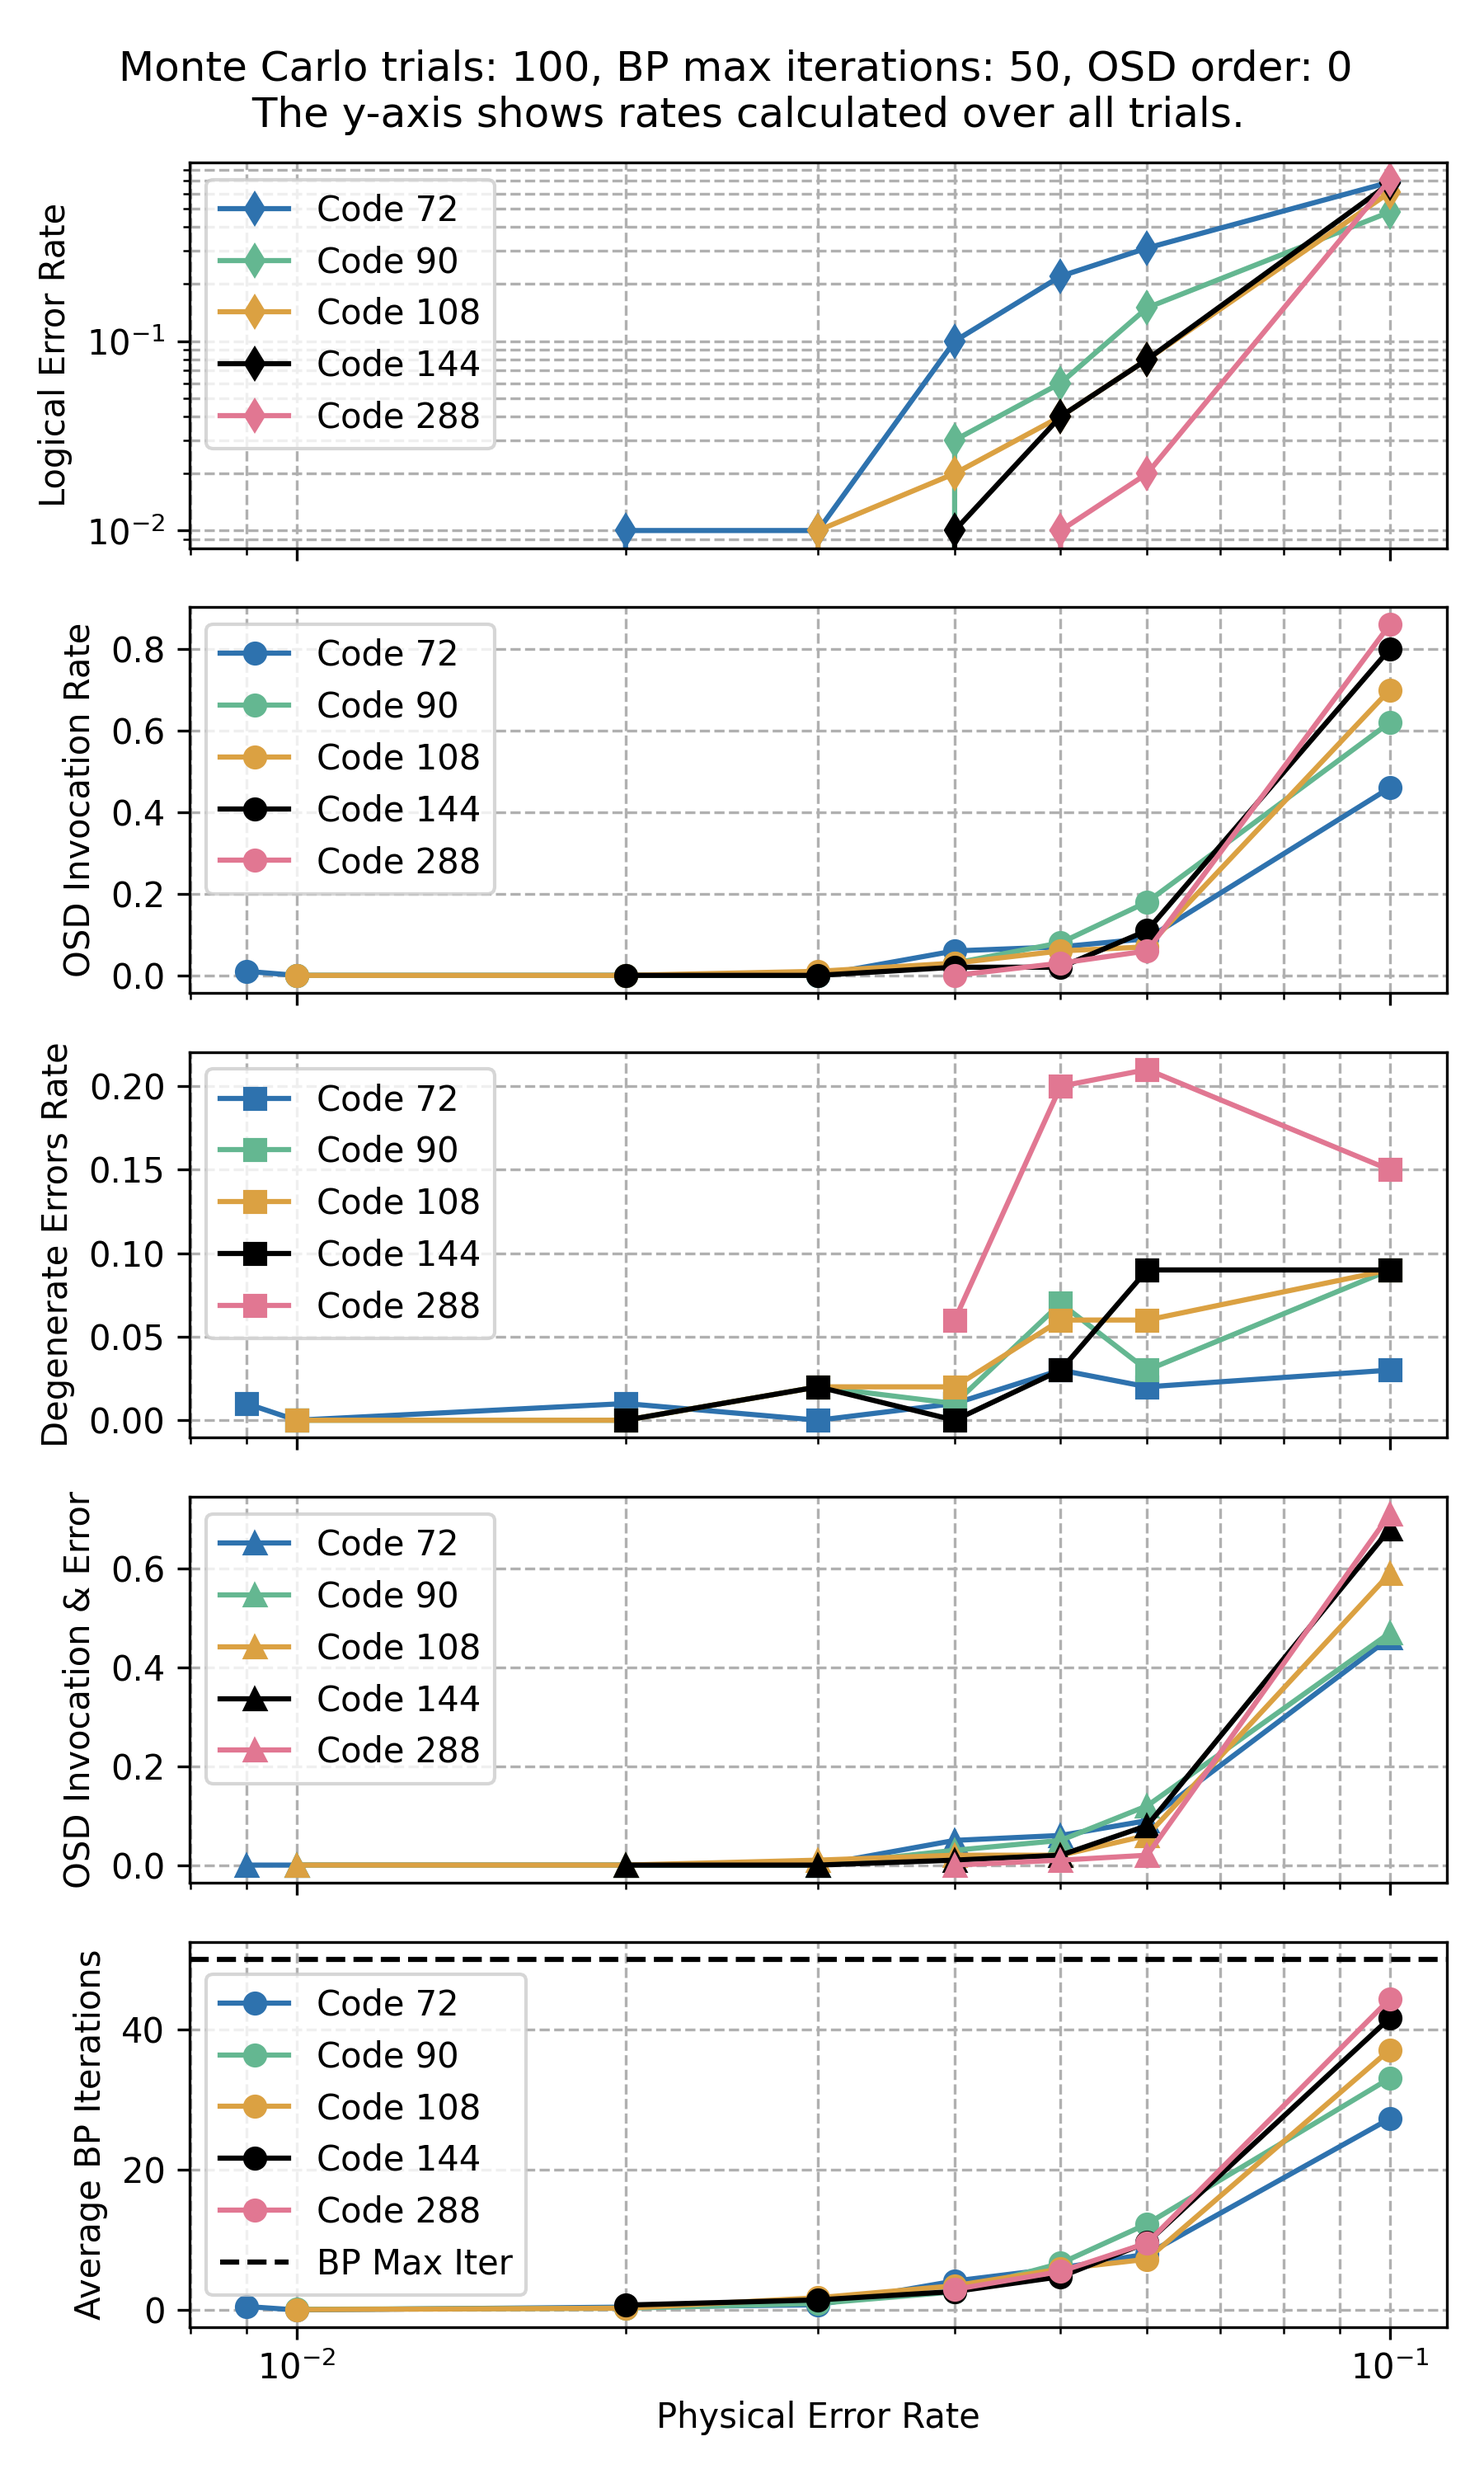
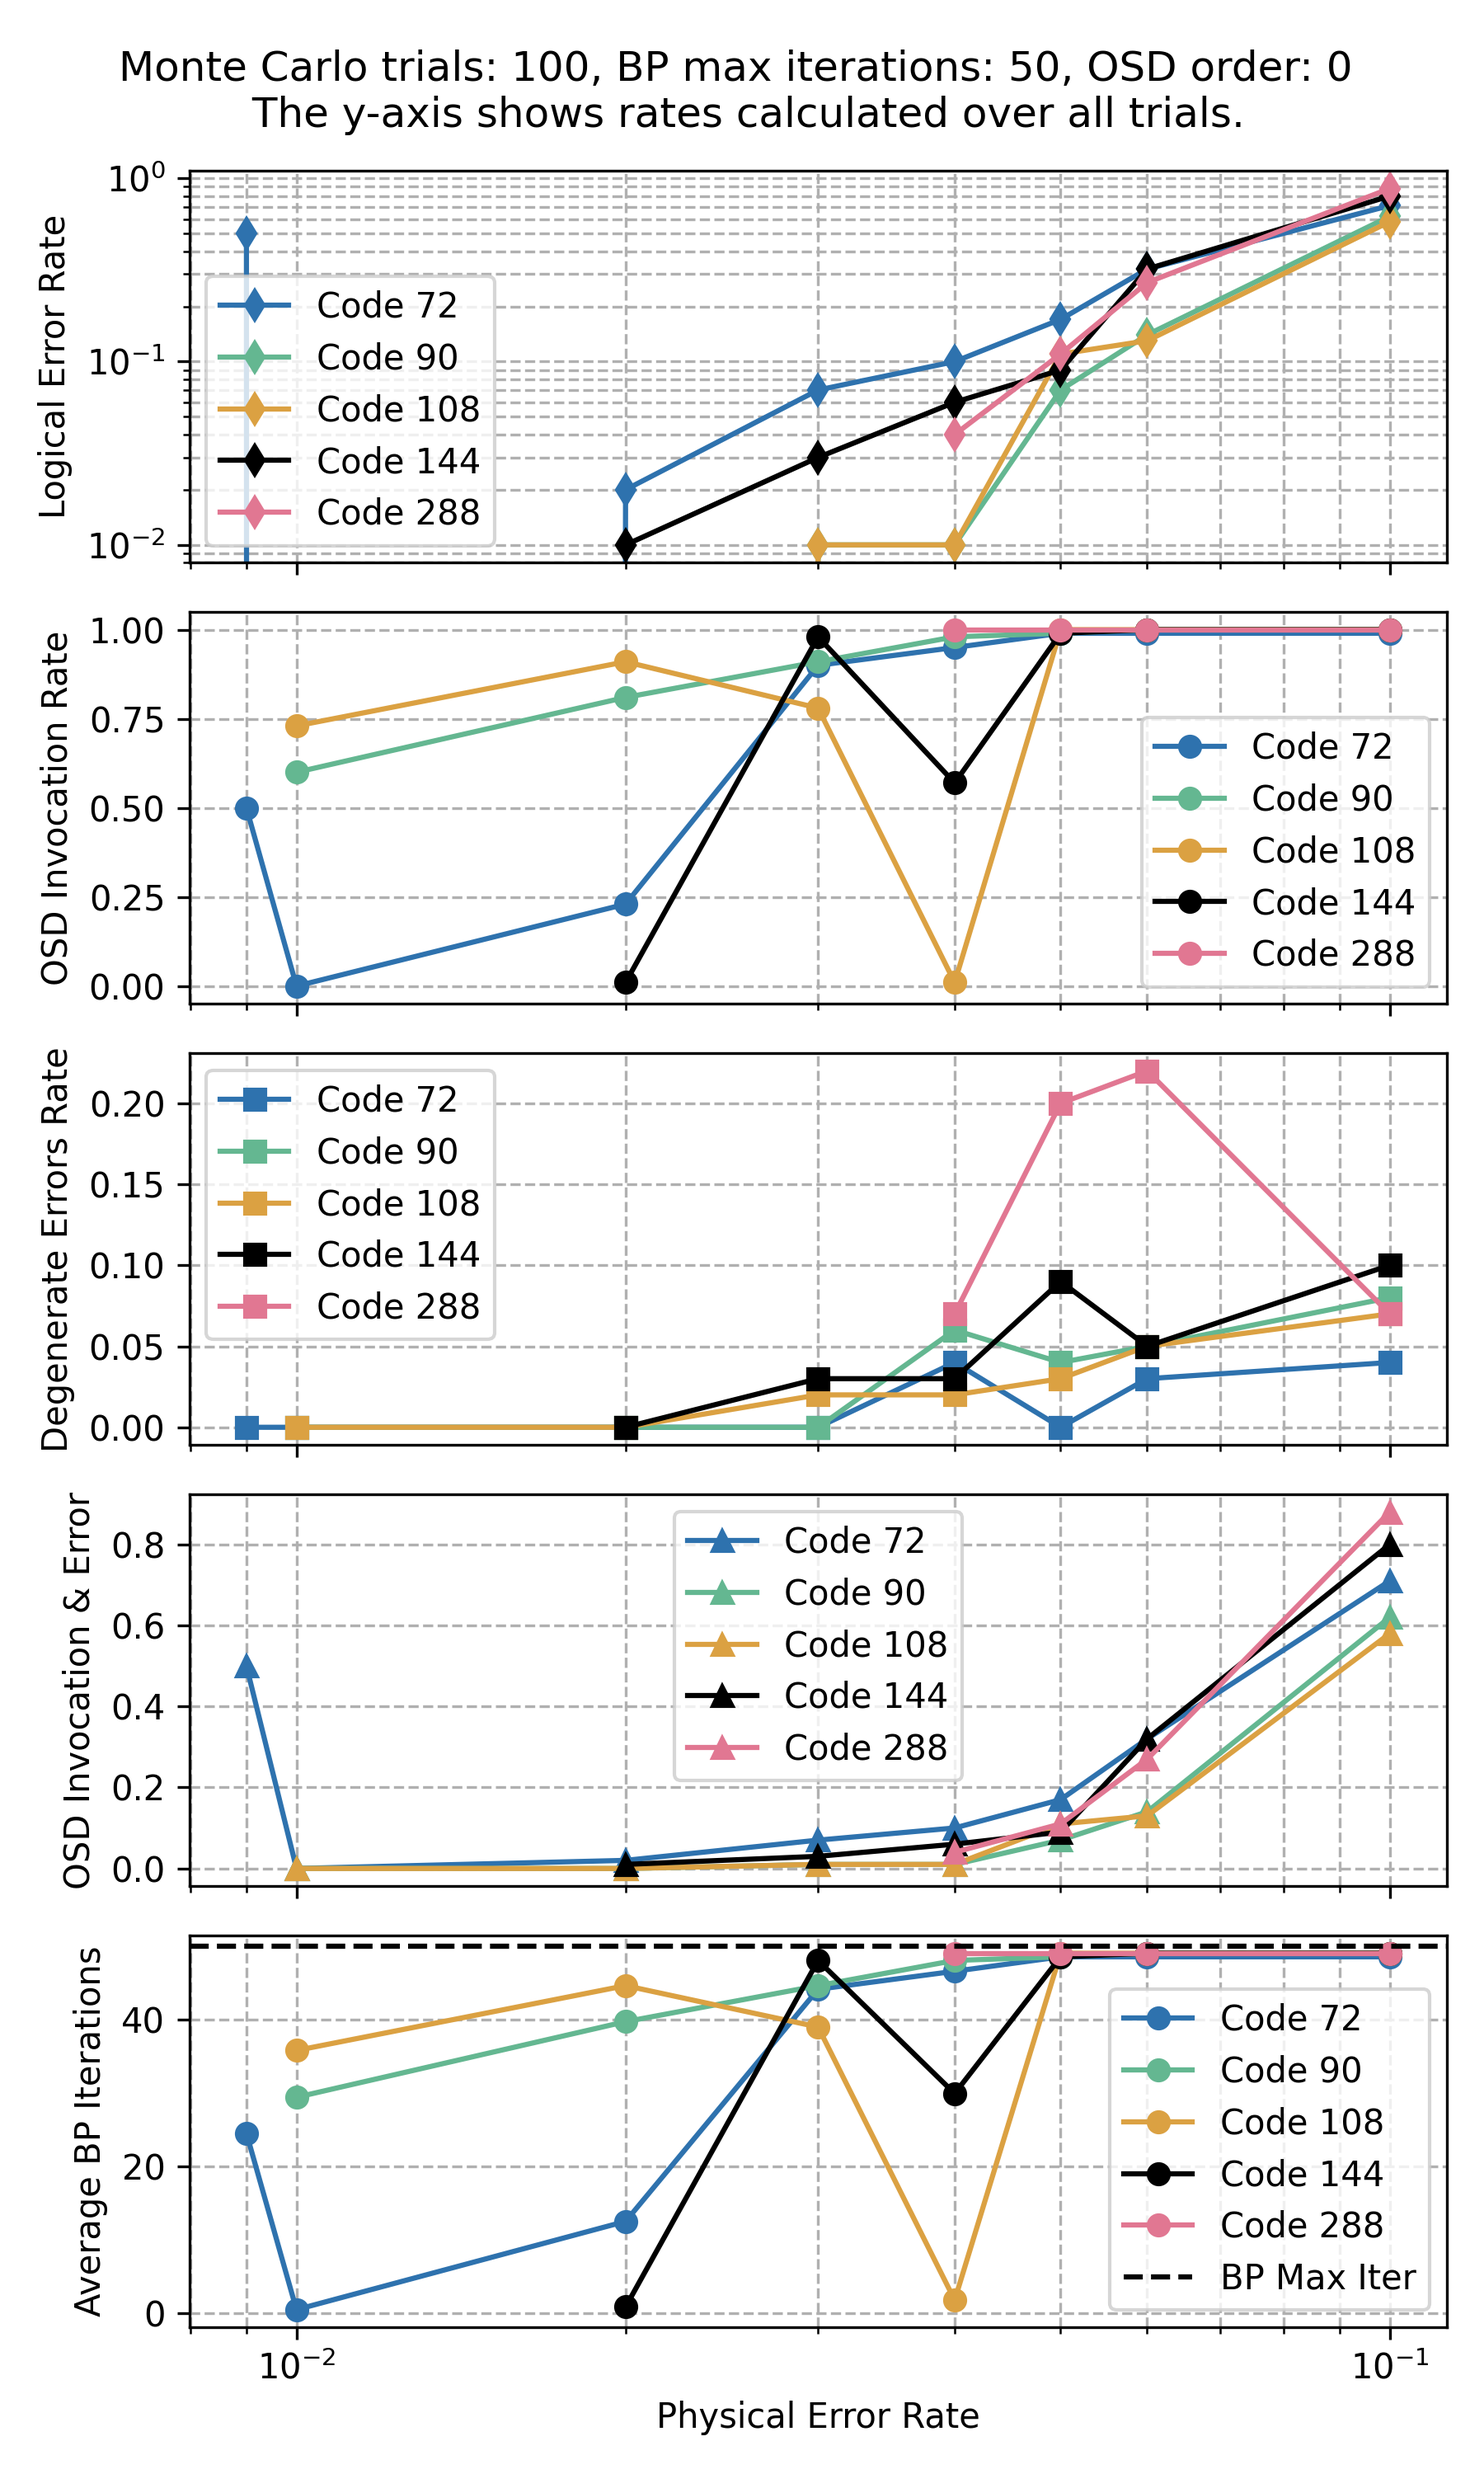
seems to work

diff --git a/rework/Alvarado.py b/rework/Alvarado.py
@@ -6,7 +6,10 @@ from scipy.optimize import curve_fit
 from decoding import performBeliefPropagation_Symmetric
 from decoding import performOSD_enhanced
 
-def estimate_alpha_from_code(code, trials=500, error_rate=0.05, maxIter=50):
+def estimate_alpha_from_code(code, trials=500, error_rate=0.05, maxIter=50, bins=50):
+
+    true_0 = []
+    true_1 = []
     
     for _trial in range(trials):
         n = len(code[0])
@@ -20,29 +23,34 @@ def estimate_alpha_from_code(code, trials=500, error_rate=0.05, maxIter=50):
             code, syndrome, initialBeliefs, maxIter=maxIter, alpha=1.0, damping=1.0, clip_llr=np.inf
         )
 
-        true_0 = llrs[error == 0]
-        true_1 = llrs[error == 1]
+        true_0.extend(llrs[error == 0])
+        true_1.extend(llrs[error == 1])
 
-        min_val = min(true_0.min(), true_1.min())
-        max_val = max(true_0.max(), true_1.max())
+    true_0 = np.array(true_0)
+    true_1 = np.array(true_1)    
 
-        hist_range = (min_val, max_val)
+    min_val = min(true_0.min(), true_1.min())
+    max_val = max(true_0.max(), true_1.max())
 
-        hist_0, bin_edges = np.histogram(true_0, bins=bins, range=hist_range, density=True)
-        hist_1, _ = np.histogram(true_1, bins=bins, range=hist_range, density=True)
-        
-        bin_centers = (bin_edges[:-1] + bin_edges[1:]) / 2
+    hist_range = (min_val, max_val)
 
-        valid_indices = (hist_0 > 0) & (hist_1 > 0)
+    hist_0, bin_edges = np.histogram(true_0, bins=bins, range=hist_range, density=True)
+    hist_1, _ = np.histogram(true_1, bins=bins, range=hist_range, density=True)
     
-        lambdas = bin_centers[valid_indices]
-        f_lambdas = np.log(hist_0[valid_indices] / hist_1[valid_indices])
-        
-        def linear_model(x, alpha):
-            return alpha * x
-        
-        popt, _ = curve_fit(linear_model, lambdas, f_lambdas)
-        alpha_opt = popt[0]
+    bin_centers = (bin_edges[:-1] + bin_edges[1:]) / 2
+
+    valid_indices = (hist_0 > 0) & (hist_1 > 0)
+
+    lambdas = bin_centers[valid_indices]
+    f_lambdas = np.log(hist_0[valid_indices] / hist_1[valid_indices])
+    
+    def linear_model(x, alpha):
+        return alpha * x
+    
+    popt, _ = curve_fit(linear_model, lambdas, f_lambdas)
+    alpha_opt = popt[0]
+
+    print(f"Estimated alpha for error rate {error_rate}: {alpha_opt}")
     
     return alpha_opt
         
@@ -82,7 +90,7 @@ experiment = [
 
 experiment_dict = {exp["name"]: exp for exp in experiment}
 
-trials = 100
+trials = 10000
 
 BP_maxIter = 50
 OSD_order = 0
@@ -118,15 +126,17 @@ for exp in experiment:
         OSD_invocation_AND_logicalError = 0
 
         collect_stats = (errorRate == exp["physicalErrorRates"][0])
-        
+
+        alpha_estimate = estimate_alpha_from_code(code, error_rate=errorRate, maxIter=BP_maxIter)
 
         for _ in tqdm.tqdm(range(trials), desc=f"Code {code_name}, p={errorRate}"):
             error = (np.random.random(n) < errorRate).astype(int)
 
             syndrome = (error @ code.T) % 2
 
+            # clipping and damping ingnored for now. We need to focus on alpha first.
             detection, isSyndromeFound, llrs, iteration = performBeliefPropagation_Symmetric(
-                code, syndrome, initialBeliefs, maxIter=BP_maxIter
+                code, syndrome, initialBeliefs, maxIter=BP_maxIter, alpha=alpha_estimate, damping=1.0, clip_llr=np.inf
             )
             iterations.append(iteration)
 
@@ -187,61 +197,61 @@ np.savez("rework/simulation_results.npz", results=results)
 
 colors = ["2E72AE", "64B791", "DBA142", "000000", "E17792"]
 
-def calculate_optimal_alpha(llr_data_code, bins=50, plot=False):
-    """
-    Implements the methodology from Alvarado et al. (2009) to find alpha.
-    """
-    # 1. Flatten data
-    L_given_0 = np.array(llr_data_code["true_0"]) # L-values when bit was 0 (syndrome + noise implication)
-    L_given_1 = np.array(llr_data_code["true_1"]) # L-values when bit was 1
+# def calculate_optimal_alpha(llr_data_code, bins=50, plot=False):
+#     """
+#     Implements the methodology from Alvarado et al. (2009) to find alpha.
+#     """
+#     # 1. Flatten data
+#     L_given_0 = np.array(llr_data_code["true_0"]) # L-values when bit was 0 (syndrome + noise implication)
+#     L_given_1 = np.array(llr_data_code["true_1"]) # L-values when bit was 1
     
-    # 2. Create Histograms (approximate the PDFs p(lambda|0) and p(lambda|1))
-    # We use a shared bin range to ensure alignment
-    min_val = min(L_given_0.min(), L_given_1.min())
-    max_val = max(L_given_0.max(), L_given_1.max())
+#     # 2. Create Histograms (approximate the PDFs p(lambda|0) and p(lambda|1))
+#     # We use a shared bin range to ensure alignment
+#     min_val = min(L_given_0.min(), L_given_1.min())
+#     max_val = max(L_given_0.max(), L_given_1.max())
     
-    # Avoid outliers skewing the plot
-    min_val = max(min_val, -20)
-    max_val = min(max_val, 20)
+#     # Avoid outliers skewing the plot
+#     min_val = max(min_val, -20)
+#     max_val = min(max_val, 20)
     
-    hist_range = (min_val, max_val)
+#     hist_range = (min_val, max_val)
     
-    hist_0, bin_edges = np.histogram(L_given_0, bins=bins, range=hist_range, density=True)
-    hist_1, _ = np.histogram(L_given_1, bins=bins, range=hist_range, density=True)
+#     hist_0, bin_edges = np.histogram(L_given_0, bins=bins, range=hist_range, density=True)
+#     hist_1, _ = np.histogram(L_given_1, bins=bins, range=hist_range, density=True)
     
-    bin_centers = (bin_edges[:-1] + bin_edges[1:]) / 2
+#     bin_centers = (bin_edges[:-1] + bin_edges[1:]) / 2
     
-    # 3. Calculate the Log Ratio (The correcting function f(lambda))
-    # f(lambda) = log( p(L|1) / p(L|0) )
-    # Handle division by zero or log of zero safely
-    valid_indices = (hist_0 > 0) & (hist_1 > 0)
+#     # 3. Calculate the Log Ratio (The correcting function f(lambda))
+#     # f(lambda) = log( p(L|1) / p(L|0) )
+#     # Handle division by zero or log of zero safely
+#     valid_indices = (hist_0 > 0) & (hist_1 > 0)
     
-    lambdas = bin_centers[valid_indices]
-    f_lambdas = np.log(hist_0[valid_indices] / hist_1[valid_indices])
+#     lambdas = bin_centers[valid_indices]
+#     f_lambdas = np.log(hist_0[valid_indices] / hist_1[valid_indices])
     
-    # 4. Fit a line f(lambda) = alpha * lambda
-    # The paper suggests a linear approximation is sufficient [cite: 170]
-    def linear_model(x, alpha):
-        return alpha * x
+#     # 4. Fit a line f(lambda) = alpha * lambda
+#     # The paper suggests a linear approximation is sufficient [cite: 170]
+#     def linear_model(x, alpha):
+#         return alpha * x
     
-    popt, _ = curve_fit(linear_model, lambdas, f_lambdas)
-    alpha_opt = popt[0]
+#     popt, _ = curve_fit(linear_model, lambdas, f_lambdas)
+#     alpha_opt = popt[0]
     
-    if plot:
-        plt.figure(figsize=(8, 4))
-        plt.scatter(lambdas, f_lambdas, label='Empirical $f(\\lambda)$', alpha=0.6)
-        plt.plot(lambdas, linear_model(lambdas, alpha_opt), 'r--', label=f'Fit $\\alpha \\approx {alpha_opt:.3f}$')
-        plt.plot(lambdas, lambdas, 'k:', label=r'Consistency Condition ($\alpha=1$)')
-        plt.xlabel(r'L-value ($\lambda$)')
-        plt.ylabel(r'$\log(p(\lambda|1)/p(\lambda|0))$')
-        plt.title(f'Consistency Plot (Alvarado Method)')
-        plt.legend()
-        plt.grid(True)
-        plt.show()
+#     if plot:
+#         plt.figure(figsize=(8, 4))
+#         plt.scatter(lambdas, f_lambdas, label='Empirical $f(\\lambda)$', alpha=0.6)
+#         plt.plot(lambdas, linear_model(lambdas, alpha_opt), 'r--', label=f'Fit $\\alpha \\approx {alpha_opt:.3f}$')
+#         plt.plot(lambdas, lambdas, 'k:', label=r'Consistency Condition ($\alpha=1$)')
+#         plt.xlabel(r'L-value ($\lambda$)')
+#         plt.ylabel(r'$\log(p(\lambda|1)/p(\lambda|0))$')
+#         plt.title(f'Consistency Plot (Alvarado Method)')
+#         plt.legend()
+#         plt.grid(True)
+#         plt.show()
         
-    return alpha_opt
+#     return alpha_opt
 
-calculate_optimal_alpha(llr_data["72"], bins=50, plot=True)
+# calculate_optimal_alpha(llr_data["72"], bins=50, plot=True)
 
 fig, axes = plt.subplots(5, 1, figsize=(6, 10), sharex=True)
 fig.suptitle(f"Monte Carlo trials: {trials}, BP max iterations: {BP_maxIter}, OSD order: {OSD_order} \n The y-axis shows rates calculated over all trials.")
